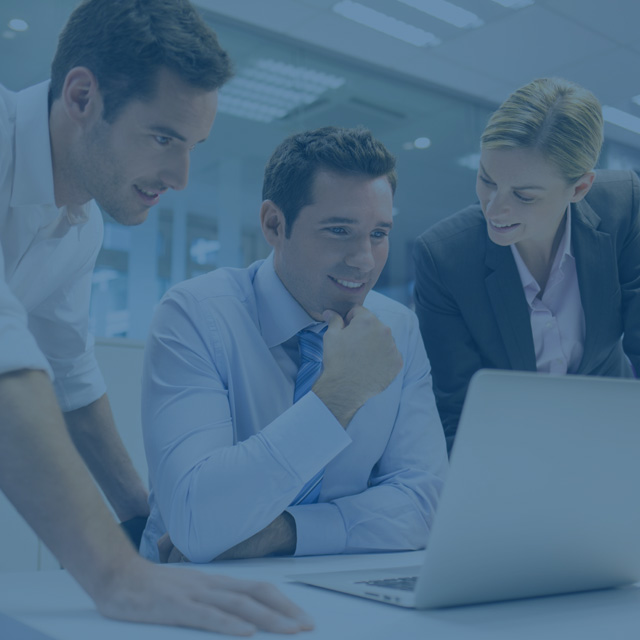
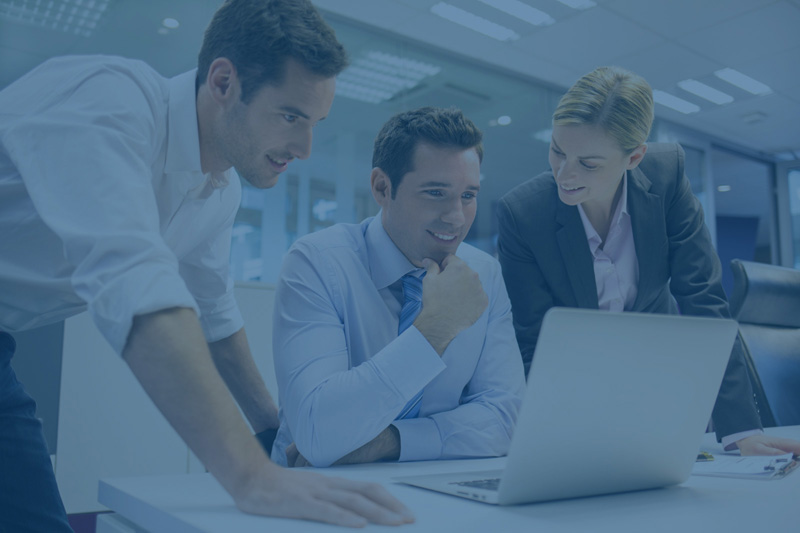
Imagenes responsive para carusel, funcionamiento de imagenes responsive para carusel

diff --git a/index.html b/index.html
@@ -86,18 +86,9 @@
 		</header>
 
 		<section class="hero remove_margin-bottom">
-			<div class="slider text_white hero__slider text_center" data-slick='{"arrows": false, "dots": true, "dotsClass": "slider__dotnav"}'>
+			<div class="slider text_white hero__slider text_center" data-slick='{"arrows": false, "dots": true, "dotsClass": "slider__dotnav", "lazyLoad": "progressive", "infinite": false}'>
 				<div class="slider__item">
-					<div class="slider__image">
-						<picture>
-							<!--[if IE 9]><video style="display: none;"><![endif]-->
-							<source srcset="_dev/img/extralarge/slide_01.jpg" media="(min-width: 1023px)">
-							<source srcset="_dev/img/large/slide_01.jpg" media="(min-width: 799px)">
-							<source srcset="_dev/img/medium/slide_01.jpg" media="(min-width: 639px)">
-							<!--[if IE 9]></video><![endif]-->
-							<img srcset="_dev/img/small/slide_01.jpg" alt="" title="" class="image">
-						</picture>
-					</div>
+					<div class="slider__image" data-img-src="slide_01.jpg"></div>
 					<div class="slider__text-content slider__text-content_slide-01">
 						<div class="slider__title">
 							Gestión de ofertas
@@ -111,36 +102,45 @@
 					</div>
 				</div>
 				<div class="slider__item">
-					<div class="slider__title">
-						Ahorro de tiempo con la máxima difusión
-					</div>
-					<div class="slider__description">
-						Ahorre tiempo y dinero tenienido todos los currículos a un click (editar, eliminar, clasificar etc) recibidos desde cualqier portal de empleo.
-					</div>
-					<div class="slider__button button button_inverse">
-						<a href="#">Solicitar demo</a>
-					</div>
-				</div>
-				<div class="slider__item">
-					<div class="slider__title">
-						Proceso automatizado
-					</div>
-					<div class="slider__description">
-						Consiga que las ofertas y candidatos de cualquier portal de empleo lleguen a su web automaticamente.
-					</div>
-					<div class="slider__button button button_inverse">
-						<a href="#">Solicitar demo</a>
+					<div class="slider__image" data-img-src="slide_02.jpg"></div>
+					<div class="slider__text-content slider__text-content_slide-02">
+						<div class="slider__title">
+							Ahorro de tiempo con la máxima difusión
+						</div>
+						<div class="slider__description">
+							Ahorre tiempo y dinero tenienido todos los currículos a un click (editar, eliminar, clasificar etc) recibidos desde cualqier portal de empleo.
+						</div>
+						<div class="slider__button button button_inverse">
+							<a href="#">Solicitar demo</a>
+						</div>
 					</div>
 				</div>
 				<div class="slider__item">
-					<div class="slider__title">
-						Entrevistas por videoconferencia
+					<div class="slider__image" data-img-src="slide_03.jpg"></div>
+					<div class="slider__text-content slider__text-content_slide-03">
+						<div class="slider__title">
+							Proceso automatizado
+						</div>
+						<div class="slider__description">
+							Consiga que las ofertas y candidatos de cualquier portal de empleo lleguen a su web automaticamente.
+						</div>
+						<div class="slider__button button button_inverse">
+							<a href="#">Solicitar demo</a>
+						</div>
 					</div>
-					<div class="slider__description">
-						Gestione la agenda de entrevistas a candidatos y conózcalos a través de videoconferencia.
-					</div>
-					<div class="slider__button button button_inverse">
-						<a href="#">Solicitar demo</a>
+				</div>
+				<div class="slider__item">
+					<div class="slider__image" data-img-src="slide_04.jpg"></div>
+					<div class="slider__text-content slider__text-content_slide-04">
+						<div class="slider__title">
+							Entrevistas por videoconferencia
+						</div>
+						<div class="slider__description">
+							Gestione la agenda de entrevistas a candidatos y conózcalos a través de videoconferencia.
+						</div>
+						<div class="slider__button button button_inverse">
+							<a href="#">Solicitar demo</a>
+						</div>
 					</div>
 				</div>
 			</div>

diff --git a/app/blocks/slider/slider_image.js b/app/blocks/slider/slider_image.js
@@ -1,0 +1,101 @@
+(function(global){
+	var sliderImage = {},
+			breakpoints = {
+		    small: 640,
+		    medium: 800,
+		    large: 1024,
+		    extralarge: 1200
+			},
+			currentWidth = 0,
+			currentBreakpoint = "",
+			imgPath = "_dev/img/",
+			breakpointMethods = [];
+
+	function getViewport() {
+    var e = window, a = "inner";
+    if (!("innerWidth" in window)) {
+        a = "client";
+        e = document.documentElement || document.body;
+    }
+    return { width: e[a + "Width"], height: e[a + "Height"] };
+	};
+
+	function responsive() {
+    var oldBreakpoint = currentBreakpoint,
+      newBreakpoint,
+      width = currentWidth = getViewport().width;
+
+    if (width < breakpoints.small) { newBreakpoint = "small"; }
+    else if (width < breakpoints.medium) { newBreakpoint = "medium"; }
+    else if (width < breakpoints.large) { newBreakpoint = "large"; }
+    else if (width < breakpoints.large) { newBreakpoint = "large"; }
+    else { newBreakpoint = "extralarge"; }
+
+    currentBreakpoint = newBreakpoint;
+
+    // Only run the breakpoint methods if the breakpoint actually changed
+    if (oldBreakpoint === newBreakpoint) {
+      return;
+    }
+
+    for (var i = 0; i < breakpointMethods.length; i++) {
+      breakpointMethods[i](); // add relevant parameters if needed
+    }
+	}
+
+	function DoResponsiveWork() {
+    // use this approach to target more breakpoints at the same time
+    /*if (currentWidth < breakpoints.medium) {
+      console.log("MEDIUM");
+    }
+    else {
+      console.log("OTRO");
+    }*/
+    responsive();
+		applyBgImage();
+	}
+
+	function applyBgImage(){
+		var imgUrl = "",
+				imageSrc = document.querySelectorAll('.slider__image');
+
+		for (var i = 0, l = imageSrc.length; i < l; i++) {
+			imgUrl = 'url(' + imgPath + currentBreakpoint + '/' + imageSrc[i].getAttribute('data-img-src') + ')';
+			imageSrc[i].style.backgroundImage = imgUrl;
+		}
+	}
+
+	sliderImage.init = function init(){
+
+		responsive();
+		applyBgImage();
+		
+		(function ($) {
+	    var w = $(window);
+
+	    /* 
+	      easy way of throttling calls to the resize event
+	      listen to the resize event once, run the all the responsive methods, wait, repeat
+	    */
+	    var responsiveListener = function () {
+	        w.one("resize", function () {
+	            responsive();
+	            setTimeout(responsiveListener, 200);
+	        });
+	    };
+
+	    // kick of the listener and run all the methods once immediately
+	    responsiveListener();
+	    responsive();
+
+	    w.load(function () {
+        //responsive();
+   		});
+
+		})(jQuery);
+
+		breakpointMethods.push(DoResponsiveWork);
+	};
+
+	global.sliderImage = sliderImage;
+})(this);

diff --git a/app/blocks/slider/slider_image_old.js b/app/blocks/slider/slider_image_old.js
@@ -1,0 +1,61 @@
+/*(function(global){
+	var sliderImage = {},
+			imgPath = "_dev/img/",
+			imgBreakpoints = ['small', 'medium', 'large', 'extralarge'],
+			breakpoints = [400, 640, 800, 1024, 1300],
+			ticking = false,
+			finalBreakpoint = "",
+			latestKnownViewportWidth = window.innerWidth || document.documentElement.clientWidth;
+
+	function onResize(){
+		latestKnownViewportWidth = window.innerWidth || document.documentElement.clientWidth;
+		requestTick();
+	}
+
+	function calculateBreakpoint(val){
+		if(val < breakpoints[0] && finalBreakpoint != imgBreakpoints[0]){
+			finalBreakpoint = imgBreakpoints[0];
+		} else if (val > breakpoints[0] && val < breakpoints[1]){
+			finalBreakpoint = imgBreakpoints[1];
+			
+		} else {
+			finalBreakpoint = imgBreakpoints[2];
+		}
+	}
+
+	function getBreakpoint(){
+		ticking = false;
+		var currentViewportWidth = latestKnownViewportWidth;
+		calculateBreakpoint(currentViewportWidth);
+		applyBgImage();
+		console.log(finalBreakpoint);
+	}
+
+	function requestTick(){
+		if(!ticking){
+			requestAnimationFrame: window.requestAnimationFrame ||
+            window.webkitRequestAnimationFrame ||
+            window.mozRequestAnimationFrame;
+			requestAnimationFrame(getBreakpoint);
+		}
+		ticking = true;
+	}
+
+	function applyBgImage(){
+		var imgUrl = "",
+				imageSrc = document.querySelectorAll('.slider__image');
+
+		for (var i = 0, l = imageSrc.length; i < l; i++) {
+			imgUrl = 'url(' + imgPath + finalBreakpoint + '/' + imageSrc[i].getAttribute('data-img-src') + ')';
+			imageSrc[i].style.backgroundImage = imgUrl;
+		}
+	}
+
+	sliderImage.init = function init() {
+		
+		window.addEventListener('resize', onResize, false);
+
+	};
+
+	global.sliderImage = sliderImage;
+})(this);*/

diff --git a/app/blocks/slider/slider__text-content.scss b/app/blocks/slider/slider__text-content.scss
@@ -9,28 +9,54 @@ $block: 'slider__text-content';
 
 	@include custom-breakpoint-max($breakpoint-phablet) {
 		bottom: 30px;
+		width: 80%;
   }
 	@include custom-breakpoint-min-max($breakpoint-phablet, $breakpoint-desktop) {
-		top: 55%;
+		bottom: 60px;
+		top: initial;
   }
 	@include custom-breakpoint-min($breakpoint-desktop) {
-		max-width: 500px;
+		max-width: 550px;
 		transform: none;
   }
 
 	&_slide-01 {
-
 		@include custom-breakpoint-min($breakpoint-desktop) {
 			top: 55%;
 			left: 40%;
+			max-width: 500px;
+	  }
+	}
+	&_slide-02 {
+		@include custom-breakpoint-min($breakpoint-desktop) {
+			top: 38%;
+			left: 15%;
+			max-width: 530px;
+	  }
+	}
+	&_slide-03 {
+		@include custom-breakpoint-min($breakpoint-desktop) {
+			top: 45%;
+			@include transform(translate, -50%, X);
+	  }
+	}
+	&_slide-04 {
+		@include custom-breakpoint-min($breakpoint-desktop) {
+			top: 40%;
+			left: 15%;
+			max-width: 400px;
 	  }
 	}
 	.slider__title {
-		@include font-size(40);
+		@include font-size(30);
 		display: inline-block;
 		font-family: $font-secondary;
 		line-height: 1.0em;
 		padding-bottom: 10px;
+
+		@include custom-breakpoint-min($breakpoint-tablet) {
+			@include font-size(40);
+		}
 		
 		@include custom-breakpoint-min($breakpoint-desktop) {
 			@include font-size(53);

diff --git a/app/blocks/mobile-menu/mobile-menu.scss b/app/blocks/mobile-menu/mobile-menu.scss
@@ -33,10 +33,7 @@ $block: 'mobile-menu';
 		visibility: visible;
 	}
 	&__designby {
-		position: absolute;
-		bottom: 20px;
-		margin: 0px !important;
-		left: 50%;
-		@include transform(translate, -50%, X);
+		position: relative;
+		padding-top: 25px;
 	}
 }

diff --git a/app/blocks/slider/slider__image.scss b/app/blocks/slider/slider__image.scss
@@ -1,7 +1,9 @@
 $block: 'slider__image';
 
 .#{$block} {
-	img {
-		@include centerMiddle();
-	}
+	background-size: cover;
+	background-position: center center;
+	background-repeat: no-repeat;
+	width: 100%;
+	height: 100%;
 }

diff --git a/app/blocks/hero/hero.scss b/app/blocks/hero/hero.scss
@@ -2,7 +2,7 @@ $block: 'hero';
 
 .#{$block} {
 	height: 640px;
-	background-color: orange;
+	background-color: $color-blue;
 	margin-top: -$header-height !important;
 
 	@include custom-breakpoint-max($breakpoint-desktop) {

diff --git a/app/blocks/why-matchtalent/why-matchtalent.scss b/app/blocks/why-matchtalent/why-matchtalent.scss
@@ -6,6 +6,8 @@ $block: 'why-matchtalent';
 
 	&__headline {
 		padding-bottom: 20px;
+		padding-left: 10px;
+		padding-right: 10px;
 
 		@include custom-breakpoint-min($breakpoint-tablet) {
 			padding-bottom: 40px;

diff --git a/app/blocks/slider/slider__dotnav.scss b/app/blocks/slider/slider__dotnav.scss
@@ -17,7 +17,7 @@ $dot-size: 15px;
 	margin: 0;
 	//width: 100%;
 
-	@include custom-breakpoint-min($breakpoint-tablet) {
+	@include custom-breakpoint-min(768px) {
 		display: block  !important;
   }
 

diff --git a/app/blocks/slider/slider.scss b/app/blocks/slider/slider.scss
@@ -1,7 +1,6 @@
 $block: 'slider';
 
 .#{$block} {
-	background: pink;
 	margin-bottom: 0px !important;
 
 	.slick-list,

diff --git a/app/app.js b/app/app.js
@@ -3,4 +3,5 @@
 	slider.init();
 	footerLinks.init();
 	header.init();
+	sliderImage.init();
 })();
